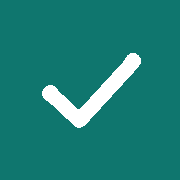
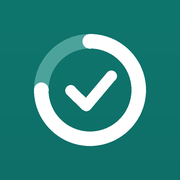
Mindre space, bedre gruppering

Changed region(s): [[0.1667, 0.1667, 0.8333, 0.8333]]

diff --git a/index.html b/index.html
@@ -10,7 +10,7 @@
 <meta name="apple-mobile-web-app-title" content="Vanelogg">
 <link rel="manifest" href="manifest.webmanifest">
 <link rel="apple-touch-icon" href="apple-touch-icon.png">
-<link rel="icon" href="icon-192.png">
+<link rel="icon" type="image/png" href="favicon.png">
 <style>
 :root{
   --c1:#0f766e;--c2:#2563eb;--c3:#9333ea;--c4:#db2777;--c5:#b45309;--c6:#4d7c0f;
@@ -39,25 +39,54 @@ h2{font-size:1.05rem;margin:0}
 .datehead .d{font-weight:650;font-size:1.1rem}
 .datehead .s{font-size:.85rem;color:var(--muted)}
 .linkbtn{background:none;border:0;color:var(--hab);font-weight:600;padding:6px 4px;min-height:36px}
-.card{background:var(--card);border:1px solid var(--line);border-radius:16px;padding:14px;margin-bottom:14px}
+.card{background:var(--card);border:1px solid var(--line);border-radius:16px;padding:10px 14px;margin-bottom:12px}
 .card h2{display:flex;justify-content:space-between;align-items:baseline;gap:8px;margin-bottom:6px}
 .badge{font-size:.8rem;font-weight:600;padding:2px 9px;border-radius:99px;background:var(--hab-soft);color:var(--hab)}
 .badge.bad{background:var(--bad-soft);color:var(--bad)}
-.row{display:flex;align-items:center;gap:10px;padding:10px 0;border-top:1px solid var(--line)}
+.row{display:flex;align-items:center;gap:8px;padding:6px 0;border-top:1px solid var(--line)}
 h2+.row,.ghead+.row{border-top:0}
 .row .info{flex:1;min-width:0}
-.row .name{font-weight:600;overflow-wrap:anywhere}
-.row .sub{font-size:.85rem;color:var(--muted);display:flex;align-items:center;gap:4px;flex-wrap:wrap}
-.row.done .sub{color:var(--hab);font-weight:600}
-.stepper{display:flex;align-items:center;gap:4px}
+.row .name{font-weight:600;overflow-wrap:anywhere;line-height:1.25}
+.row .sub{font-size:.82rem;color:var(--muted);display:flex;align-items:center;gap:2px 8px;flex-wrap:wrap;line-height:1.3}
+.row.done .sub{color:var(--g,var(--hab));font-weight:600}
+.stepper{display:flex;align-items:center;gap:2px}
 .stepper button{width:44px;height:44px;border-radius:12px;border:1px solid var(--line);background:var(--bg);font-size:1.4rem;line-height:1}
-.stepper button.plus{background:var(--hab);border-color:var(--hab);color:#fff}
-.bad .stepper button.plus,.row.badrow .stepper button.plus{background:var(--bad);border-color:var(--bad)}
-@media (prefers-color-scheme:dark){.stepper button.plus{color:#062b27}.row.badrow .stepper button.plus{color:#2b1b00}}
+.gc-teal{--g:#0f766e;--gs:#d6efeb;--gt:#fff}
+.gc-blue{--g:#1d4ed8;--gs:#dbe7fd;--gt:#fff}
+.gc-purple{--g:#6d28d9;--gs:#e9defc;--gt:#fff}
+.gc-pink{--g:#be185d;--gs:#fbdcea;--gt:#fff}
+.gc-orange{--g:#b43c0a;--gs:#fde3d3;--gt:#fff}
+.gc-green{--g:#166534;--gs:#d8f1de;--gt:#fff}
+.gc-red{--g:#b91c1c;--gs:#fbdada;--gt:#fff}
+.gc-slate{--g:#475569;--gs:#e2e8f0;--gt:#fff}
+@media (prefers-color-scheme:dark){
+.gc-teal{--g:#2dd4bf;--gs:#12403b;--gt:#062b27}
+.gc-blue{--g:#8ab4ff;--gs:#1b2a4d;--gt:#0b1530}
+.gc-purple{--g:#b79cff;--gs:#2c2150;--gt:#150b33}
+.gc-pink{--g:#f472b6;--gs:#4a1c37;--gt:#2e0a1c}
+.gc-orange{--g:#fb923c;--gs:#4a2a12;--gt:#2b1200}
+.gc-green{--g:#4ade80;--gs:#143a21;--gt:#04210f}
+.gc-red{--g:#f87171;--gs:#4a1c1c;--gt:#2e0808}
+.gc-slate{--g:#a8b5c6;--gs:#2a3340;--gt:#10161d}}
+.stepper button.plus{background:var(--g,var(--hab));border-color:var(--g,var(--hab));color:var(--gt,#fff)}
+.row.badrow .stepper button.plus{background:var(--g,var(--bad));border-color:var(--g,var(--bad));color:var(--gt,#fff)}
+@media (prefers-color-scheme:dark){.stepper button.plus{color:var(--gt,#062b27)}.row.badrow .stepper button.plus{color:var(--gt,#2b1b00)}}
+.card.gcard{border-left:6px solid var(--g)}
+.gh{display:flex;align-items:center;gap:10px;margin-bottom:2px}
+.gh .nm{font-weight:700;flex:1;overflow-wrap:anywhere}
+.ic{width:30px;height:30px;border-radius:10px;background:var(--gs);color:var(--g);display:grid;place-items:center;flex:none}
+.gcnt{font-size:.8rem;font-weight:700;padding:2px 9px;border-radius:99px;background:var(--gs,var(--hab-soft));color:var(--g,var(--hab))}
+.sect{display:flex;justify-content:space-between;align-items:center;margin:20px 2px 8px}
+.sect:first-of-type{margin-top:8px}
+.sect h2{font-size:1.1rem}
+.card>.row:first-child,.gh+.row{border-top:0}
+.swatches{display:flex;flex-wrap:wrap;gap:10px}
+.sw{width:44px;height:44px;border-radius:50%;border:3px solid transparent;background:var(--g);color:var(--gt,#fff);display:grid;place-items:center;padding:0}
+.sw[aria-pressed=true]{border-color:var(--ink);box-shadow:0 0 0 2px var(--card) inset}
 .stepper button.plus.secondary{background:var(--bg);border-color:var(--line);color:var(--ink)}
-.row.done .stepper button.plus.secondary{border-color:var(--hab)}
+.row.done .stepper button.plus.secondary{border-color:var(--g,var(--hab))}
 .stepper button:disabled{opacity:.35}
-.cnt{min-width:46px;height:44px;text-align:center;font-size:1.2rem;font-weight:700;border:1px solid transparent;border-radius:10px;background:transparent;-moz-appearance:textfield}
+.cnt{min-width:40px;height:44px;text-align:center;font-size:1.2rem;font-weight:700;border:1px solid transparent;border-radius:10px;background:transparent;-moz-appearance:textfield}
 .cnt::-webkit-outer-spin-button,.cnt::-webkit-inner-spin-button{-webkit-appearance:none;margin:0}
 .cnt:focus{border-color:var(--line);background:var(--bg)}
 .empty{text-align:center;padding:28px 12px}
@@ -94,10 +123,10 @@ input.txt{width:100%;min-height:46px;border:1px solid var(--line);border-radius:
 .minrow{display:flex;align-items:center;gap:10px}
 .minrow output{font-size:1.2rem;font-weight:700;min-width:2ch;text-align:center}
 .minrow button{width:44px;height:44px;border-radius:12px;border:1px solid var(--line);background:var(--bg);font-size:1.4rem}
-.alist .item{display:flex;align-items:center;gap:6px;border-top:1px solid var(--line);min-height:56px}
+.alist .item{display:flex;align-items:center;gap:6px;border-top:1px solid var(--line);min-height:48px}
 .alist .item:first-child,.ghead+.item{border-top:0}
-.alist .item .main{flex:1;min-width:0;text-align:left;display:flex;align-items:center;gap:10px;background:none;border:0;padding:12px 0;min-height:56px}
-.alist .item .mv{width:44px;height:44px;border-radius:12px;border:1px solid var(--line);background:var(--bg);display:grid;place-items:center;flex:none}
+.alist .item .main{flex:1;min-width:0;text-align:left;display:flex;align-items:center;gap:10px;background:none;border:0;padding:6px 0;min-height:48px}
+.alist .item .mv{width:40px;height:40px;border-radius:12px;border:1px solid var(--line);background:var(--bg);display:grid;place-items:center;flex:none}
 .alist .item .mv:disabled{opacity:.3}
 .dot{width:10px;height:10px;border-radius:50%;background:var(--hab);flex:none}
 .dot.bad{background:var(--bad)}
@@ -109,10 +138,11 @@ textarea.txt{width:100%;border:1px solid var(--line);border-radius:12px;padding:
 .qlog{-webkit-touch-callout:none;-webkit-user-select:none;user-select:none;touch-action:manipulation}
 .row.rest .name{color:var(--muted)}
 .streak{display:inline-flex;align-items:center;gap:4px;font-size:.82rem;font-weight:600;color:var(--bad)}
-.notebtn{display:flex;align-items:center;gap:5px;background:none;border:0;padding:4px 0;min-height:32px;color:var(--muted);font-size:.85rem;max-width:100%;text-align:left}
+.notebtn{display:flex;align-items:center;gap:5px;background:none;border:0;padding:2px 0;min-height:26px;color:var(--muted);font-size:.82rem;max-width:100%;text-align:left}
+.notebtn.io{padding:2px 6px;min-height:28px;border-radius:8px}
 .notebtn span{overflow:hidden;text-overflow:ellipsis;white-space:nowrap}
 .notebtn.has{color:var(--ink)}
-.notebtn.has svg{color:var(--hab)}
+.notebtn.has svg{color:var(--g,var(--hab))}
 .prog{display:flex;align-items:center;gap:14px}
 .prog .t{font-weight:650;font-size:1.05rem}
 .prog .s{font-size:.88rem;color:var(--muted)}
@@ -125,30 +155,31 @@ table.gt{border-collapse:separate;border-spacing:3px;width:100%}
 .gt th.today{color:var(--hab);text-decoration:underline}
 .gt th.rn{text-align:left;position:sticky;left:0;background:var(--card);z-index:1;width:74px;min-width:66px;max-width:84px;font-size:.8rem;color:var(--ink);padding-right:4px;overflow-wrap:break-word;hyphens:auto}
 .gt .gr th{text-align:left;font-size:.8rem;color:var(--muted);padding-top:8px}
-.gt .gr th span{display:inline-flex;align-items:center;gap:6px;position:sticky;left:0}
+.gt .gr th span{display:inline-flex;align-items:center;gap:6px;position:sticky;left:0;color:var(--g,var(--muted));font-weight:700}
 .gt td{padding:0;text-align:center}
 .gt td.sum{font-weight:700;font-size:.85rem;min-width:18px;padding-left:2px}
 .cell{width:100%;min-width:25px;height:36px;border-radius:7px;border:1.5px solid var(--line);background:transparent;display:grid;place-items:center;font-size:.74rem;font-weight:700;padding:0;position:relative;color:#fff}
 .gt.m .cell{min-width:24px;height:32px}
-.cell.done{background:var(--hab);border-color:var(--hab)}
-.cell.bad{background:var(--bad);border-color:var(--bad)}
-.cell.part{background:var(--hab-soft);border-color:var(--hab);color:var(--hab)}
+.cell.done{background:var(--g,var(--hab));border-color:var(--g,var(--hab))}
+.cell.bad{background:var(--g,var(--bad));border-color:var(--g,var(--bad))}
+.cell.part{background:var(--gs,var(--hab-soft));border-color:var(--g,var(--hab));color:var(--g,var(--hab))}
 .cell.none{color:transparent}
 .cell.rest{border-style:dashed;opacity:.5}
 .cell.na{border-color:transparent;background:repeating-linear-gradient(135deg,var(--line) 0 2px,transparent 2px 5px);opacity:.5;pointer-events:none}
 .cell.hasnote::after{content:"";position:absolute;top:2px;right:2px;width:6px;height:6px;border-radius:50%;background:var(--ink);border:1px solid var(--card)}
 .cell.sel{outline:3px solid var(--focus);outline-offset:1px}
-@media (prefers-color-scheme:dark){.cell.done{color:#062b27}.cell.bad{color:#2b1b00}}
+@media (prefers-color-scheme:dark){.cell.done{color:var(--gt,#062b27)}.cell.bad{color:var(--gt,#2b1b00)}}
+.cell.done,.cell.bad{color:var(--gt,#fff)}
 .ghead{display:flex;align-items:center;gap:8px;font-weight:650;font-size:.9rem;color:var(--muted);margin:14px 0 2px}
 .ghead .gc{margin-left:auto;font-weight:600;font-size:.82rem}
 .ghead svg{flex:none}
 .btn.sm{min-height:40px;padding:0 12px;font-size:.9rem}
 .chips{display:flex;flex-wrap:wrap;gap:6px}
 .chips button{min-height:44px;padding:0 12px;border-radius:12px;border:1px solid var(--line);background:var(--bg);display:flex;align-items:center;gap:6px;font-weight:600}
-.chips button[aria-pressed=true]{background:var(--hab-soft);border-color:var(--hab);color:var(--hab)}
+.chips button[aria-pressed=true]{background:var(--gs,var(--hab-soft));border-color:var(--g,var(--hab));color:var(--g,var(--hab))}
 .igrid{display:grid;grid-template-columns:repeat(4,1fr);gap:6px}
 .igrid button{min-height:62px;display:flex;flex-direction:column;align-items:center;justify-content:center;gap:3px;border:1px solid var(--line);border-radius:12px;background:var(--bg);font-size:.7rem;font-weight:600;color:var(--muted);padding:4px 2px}
-.igrid button[aria-pressed=true]{background:var(--hab-soft);border-color:var(--hab);color:var(--hab)}
+.igrid button[aria-pressed=true]{background:var(--gs,var(--hab-soft));border-color:var(--g,var(--hab));color:var(--g,var(--hab))}
 .ghd{display:flex;justify-content:space-between;align-items:center}
 .legend{display:flex;flex-wrap:wrap;gap:6px;margin-top:8px}
 .legend button{display:flex;align-items:center;gap:6px;min-height:40px;padding:0 10px;border-radius:10px;border:1px solid var(--line);background:var(--bg);font-size:.88rem;font-weight:600;max-width:100%}
@@ -195,7 +226,7 @@ let storageOK = true;
 let state = { v:1, activities:[], groups:[], logs:{}, notes:{}, meta:{ lastBackup:null, snoozeUntil:null, remindTime:'20:00' }, prefs:{ range:'week', kind:'bar' } };
 try {
   const raw = localStorage.getItem(KEY);
-  if (raw) { const p = JSON.parse(raw); if (p && Array.isArray(p.activities) && p.logs) state = Object.assign(state, p, { prefs: Object.assign(state.prefs, p.prefs||{}) }); if (!Array.isArray(state.groups)) state.groups = []; if (!state.notes || typeof state.notes !== 'object') state.notes = {}; state.meta = Object.assign({ lastBackup:null, snoozeUntil:null, remindTime:'20:00' }, state.meta || {}); }
+  if (raw) { const p = JSON.parse(raw); if (p && Array.isArray(p.activities) && p.logs) state = Object.assign(state, p, { prefs: Object.assign(state.prefs, p.prefs||{}) }); if (!Array.isArray(state.groups)) state.groups = []; if (!state.notes || typeof state.notes !== 'object') state.notes = {}; state.groups.forEach((g, i) => { if (!g.color) g.color = ['teal','blue','purple','pink','orange','green','red','slate'][i % 8]; }); state.meta = Object.assign({ lastBackup:null, snoozeUntil:null, remindTime:'20:00' }, state.meta || {}); }
 } catch(e) { storageOK = false; }
 function save() {
   try { localStorage.setItem(KEY, JSON.stringify(state)); } catch(e) { storageOK = false; }
@@ -328,6 +359,8 @@ const GI = {
   sun:['Morgen','<circle cx="12" cy="12" r="4"/><path d="M12 2v2M12 20v2M2 12h2M20 12h2M4.9 4.9l1.4 1.4M17.7 17.7l1.4 1.4M4.9 19.1l1.4-1.4M17.7 6.3l1.4-1.4"/>'],
   tree:['Ute','<path d="M12 21v-6M12 15c-4 0-6-2.5-6-5.5 0-2 1.5-3.5 3.5-3.5C9.5 4 11 3 12 3s2.5 1 2.5 3c2 0 3.5 1.5 3.5 3.5 0 3-2 5.5-6 5.5z"/>']
 };
+const COLORS = [{k:'teal',n:'Blågrønn'},{k:'blue',n:'Blå'},{k:'purple',n:'Lilla'},{k:'pink',n:'Rosa'},{k:'orange',n:'Oransje'},{k:'green',n:'Grønn'},{k:'red',n:'Rød'},{k:'slate',n:'Grå'}];
+const nextColor = () => (COLORS.find(c => !state.groups.some(g => g.color === c.k)) || COLORS[state.groups.length % COLORS.length]).k;
 const gicon = (k, sz = 20) => `<svg width="${sz}" height="${sz}" viewBox="0 0 24 24" fill="none" stroke="currentColor" stroke-width="2" stroke-linecap="round" stroke-linejoin="round" aria-hidden="true">${(GI[k] || GI.star)[1]}</svg>`;
 
 /* ---------- Visninger ---------- */
@@ -373,41 +406,45 @@ function renderToday() {
       <div><div class="t">${reachedN === due.length ? 'Alt gjort ' + (isToday ? 'i dag' : 'denne dagen') : reachedN + ' av ' + due.length + ' vaner nådd'}</div>
       <div class="s">${reachedN === due.length ? 'Bra jobba!' : (due.length - reachedN) + ' igjen ' + (isToday ? 'i dag' : 'denne dagen')}</div></div></section>`;
   }
-  const gHead = (g, items) => {
-    if (!state.groups.length) return '';
-    const hab = items.length && items[0].type === 'habit';
-    const its = items.filter(a => isDue(a, day));
-    const cnt = hab && its.length ? `<span class="gc">${its.filter(a => getCount(a.id, day) >= a.target).length}/${its.length}</span>` : '';
-    return `<div class="ghead">${g ? gicon(g.icon) : ''}<span>${g ? esc(g.name) : 'Andre'}</span>${cnt}</div>`;
+  const noteIcon = a => noteOf(a.id, day) ? '' : `<button class="notebtn io" data-act="note" data-id="${a.id}" aria-label="Legg til notat for ${esc(a.name)}">${I.note}</button>`;
+  const noteLine = a => { const n = noteOf(a.id, day); return n ? `<button class="notebtn has" data-act="note" data-id="${a.id}" aria-label="Rediger notat for ${esc(a.name)}">${I.note}<span>${esc(n)}</span></button>` : ''; };
+  const habRow = a => {
+    const c = getCount(a.id, day), done = c >= a.target, s = sched(a), isWeek = s.mode === 'week', rest = !isWeek && !isDue(a, day);
+    const wk = isWeek ? weekCount(a, day) : 0;
+    let sub;
+    if (done) sub = I.check + ' Nådd'; else if (isWeek) sub = wk + ' av ' + s.n + ' denne uka'; else if (rest) sub = 'Hviledag'; else sub = 'Minst ' + a.target + (a.target>1?' ganger':' gang');
+    if (done && isWeek) sub += ' · ' + wk + ' av ' + s.n + ' denne uka';
+    if (c > a.target) sub += ' · ' + c + ' totalt';
+    let st = '';
+    if (isToday) { const k = streakOf(a); if (k.n >= 2) st = `<span class="streak">${I.flame} ${k.n} ${k.unit} på rad</span>`; }
+    return `<div class="row ${done?'done':''} ${rest?'rest':''}">
+      <div class="info"><div class="name qlog" data-id="${a.id}">${esc(a.name)}</div>
+      <div class="sub"><span style="display:inline-flex;align-items:center;gap:4px">${sub}</span>${st}${noteIcon(a)}</div>${noteLine(a)}</div>
+      ${stepper(a, c, done)}</div>`;
   };
-  const noteBtn = a => { const n = noteOf(a.id, day);
-    return `<button class="notebtn ${n?'has':''}" data-act="note" data-id="${a.id}" aria-label="${n ? 'Rediger notat for ' : 'Legg til notat for '}${esc(a.name)}">${I.note}<span>${n ? esc(n) : 'Notat'}</span></button>`; };
+  const badRow = a => {
+    const c = getCount(a.id, day);
+    let st = ''; if (isToday) { const w = daysWithout(a); if (w >= 1) st = `<span class="streak" style="color:var(--hab)">${I.check} ${w} ${w===1?'dag':'dager'} uten</span>`; }
+    return `<div class="row badrow"><div class="info"><div class="name qlog" data-id="${a.id}">${esc(a.name)}</div>
+      <div class="sub"><span>${c ? c + (c>1?' ganger':' gang') : 'Ingen'}</span>${st}${noteIcon(a)}</div>${noteLine(a)}</div>${stepper(a, c, false)}</div>`;
+  };
+  /* Ett kort per gruppe */
+  const cards = (list, rowFn, type) => grouped(list).map(({ g, items }) => {
+    let head = '';
+    if (state.groups.length) {
+      let cnt = '';
+      if (type === 'habit') { const its = items.filter(a => isDue(a, day)); if (its.length) cnt = `<span class="gcnt">${its.filter(a => getCount(a.id, day) >= a.target).length}/${its.length}</span>`; }
+      else { const t = items.reduce((n, a) => n + getCount(a.id, day), 0); if (t) cnt = `<span class="gcnt">${t}×</span>`; }
+      head = `<div class="gh">${g ? `<span class="ic">${gicon(g.icon, 20)}</span>` : ''}<span class="nm">${g ? esc(g.name) : 'Andre'}</span>${cnt}</div>`;
+    }
+    return `<section class="card ${g ? 'gcard gc-' + (g.color || 'teal') : ''}" aria-label="${g ? esc(g.name) : 'Andre'}">${head}${items.map(rowFn).join('')}</section>`;
+  }).join('');
   if (hs.length) {
-    h += `<section class="card" aria-labelledby="hh"><h2 id="hh">Vaner <span class="badge">${due.length ? reachedN + ' av ' + due.length + ' nådd' : 'ingen planlagt'}</span></h2>`;
-    h += grouped(hs).map(({ g, items }) => gHead(g, items) + items.map(a => {
-      const c = getCount(a.id, day), done = c >= a.target, s = sched(a), isWeek = s.mode === 'week', rest = !isWeek && !isDue(a, day);
-      const wk = isWeek ? weekCount(a, day) : 0;
-      let sub;
-      if (done) sub = I.check + ' Nådd'; else if (isWeek) sub = wk + ' av ' + s.n + ' denne uka'; else if (rest) sub = 'Hviledag'; else sub = 'Minst ' + a.target + (a.target>1?' ganger':' gang');
-      if (done && isWeek) sub += ' · ' + wk + ' av ' + s.n + ' denne uka';
-      if (c > a.target) sub += ' · ' + c + ' totalt';
-      let st = '';
-      if (isToday) { const k = streakOf(a); if (k.n >= 2) st = `<span class="streak">${I.flame} ${k.n} ${k.unit} på rad</span>`; }
-      return `<div class="row ${done?'done':''} ${rest?'rest':''}">
-        <div class="info"><div class="name qlog" data-id="${a.id}">${esc(a.name)}</div>
-        <div class="sub"><span style="display:inline-flex;align-items:center;gap:4px">${sub}</span>${st}</div>${noteBtn(a)}</div>
-        ${stepper(a, c, done)}</div>`;
-    }).join('')).join('') + `</section>`;
+    h += `<div class="sect"><h2 id="hh">Vaner</h2><span class="badge">${due.length ? reachedN + ' av ' + due.length + ' nådd' : 'ingen planlagt'}</span></div>` + cards(hs, habRow, 'habit');
   }
   if (bs.length) {
     const tot = bs.reduce((s,a) => s + getCount(a.id, day), 0);
-    h += `<section class="card" aria-labelledby="bh"><h2 id="bh">Uvaner <span class="badge bad">${tot} registrert</span></h2>`;
-    h += grouped(bs).map(({ g, items }) => gHead(g, items) + items.map(a => {
-      const c = getCount(a.id, day);
-      let st = ''; if (isToday) { const w = daysWithout(a); if (w >= 1) st = `<span class="streak" style="color:var(--hab)">${I.check} ${w} ${w===1?'dag':'dager'} uten</span>`; }
-      return `<div class="row badrow"><div class="info"><div class="name qlog" data-id="${a.id}">${esc(a.name)}</div>
-        <div class="sub"><span>${c ? c + (c>1?' ganger':' gang') : 'Ingen'}</span>${st}</div>${noteBtn(a)}</div>${stepper(a, c, false)}</div>`;
-    }).join('')).join('') + `</section>`;
+    h += `<div class="sect"><h2 id="bh">Uvaner</h2><span class="badge bad">${tot} registrert</span></div>` + cards(bs, badRow, 'bad');
   }
   h += `<p class="hint">Tips: dobbelttrykk eller hold inne på et navn for +1. Sveip sideveis for å bytte dag.</p>`;
   return h;
@@ -557,7 +594,7 @@ function renderTrends() {
         + days.map(d => { const dt = parse(d); return `<th scope="col" class="${d === today ? 'today' : ''}">${month ? '' : DAYS3[dt.getDay()] + '<br>'}${dt.getDate()}</th>`; }).join('')
         + `<th scope="col" title="${bad ? 'Antall ganger' : 'Dager oppnådd'}">${bad ? 'Σ' : '✓'}</th></tr></thead><tbody>`;
       grouped(list).forEach(({ g, items }) => {
-        if (state.groups.length) h += `<tr class="gr"><th colspan="${days.length + 2}" scope="colgroup"><span>${g ? gicon(g.icon, 16) : ''}${g ? esc(g.name) : 'Andre'}</span></th></tr>`;
+        if (state.groups.length) h += `<tr class="gr ${g ? 'gc-' + (g.color || 'teal') : ''}"><th colspan="${days.length + 2}" scope="colgroup"><span>${g ? gicon(g.icon, 16) : ''}${g ? esc(g.name) : 'Andre'}</span></th></tr>`;
         items.forEach(a => {
           let sum = 0;
           const cells = days.map(d => {
@@ -568,7 +605,7 @@ function renderTrends() {
             else if (ci.st === 'part') inner = month ? '' : ci.c;
             return `<td><button class="cell ${ci.st} ${noteOf(a.id, d) ? 'hasnote' : ''}" data-act="gcell" data-id="${a.id}" data-d="${d}" aria-label="${esc(a.name)}, ${esc(shortDate(d))}: ${esc(statusText(a, d))}${noteOf(a.id, d) ? ', har notat' : ''}" ${ci.st === 'na' ? 'tabindex="-1" aria-disabled="true"' : ''}>${inner}</button></td>`;
           }).join('');
-          h += `<tr><th class="rn" scope="row">${esc(a.name)}${a.archived ? ' <span class="muted">(arkivert)</span>' : ''}</th>${cells}<td class="sum">${sum}</td></tr>`;
+          h += `<tr class="${g ? 'gc-' + (g.color || 'teal') : ''}"><th class="rn" scope="row">${esc(a.name)}${a.archived ? ' <span class="muted">(arkivert)</span>' : ''}</th>${cells}<td class="sum">${sum}</td></tr>`;
         });
       });
       h += `</tbody></table></div><div class="cap" id="cap-g-${type}" aria-live="polite" style="margin-top:8px"><span class="muted">Trykk på en rute for detaljer.</span></div></section>`;
@@ -652,21 +689,23 @@ function renderActs() {
     <span style="flex:1;overflow-wrap:anywhere"><b>${esc(a.name)}</b> ${a.type==='habit' ? `<span class="muted"> · minst ${a.target}×/dag${schedText(a)}</span>` : ''}</span></button>
     <button class="mv" data-act="move" data-id="${a.id}" data-d="-1" aria-label="Flytt opp: ${esc(a.name)}" ${i===0?'disabled':''}>${arrow(-1)}</button>
     <button class="mv" data-act="move" data-id="${a.id}" data-d="1" aria-label="Flytt ned: ${esc(a.name)}" ${i===list.length-1?'disabled':''}>${arrow(1)}</button></div>`;
-  const gHead = g => state.groups.length ? `<div class="ghead">${g ? gicon(g.icon) : ''}<span>${g ? esc(g.name) : 'Andre'}</span></div>` : '';
   const sect = (type, none) => {
     const list = live(type);
-    if (!list.length) return `<p class="muted">${none}</p>`;
-    return grouped(list).map(({ g, items }) => gHead(g) + items.map((a, i) => item(a, i, items)).join('')).join('');
+    if (!list.length) return `<section class="card"><p class="muted" style="margin:0">${none}</p></section>`;
+    return grouped(list).map(({ g, items }) => {
+      const head = state.groups.length ? `<div class="gh">${g ? `<span class="ic">${gicon(g.icon, 20)}</span>` : ''}<span class="nm">${g ? esc(g.name) : 'Andre'}</span></div>` : '';
+      return `<section class="card ${g ? 'gcard gc-' + (g.color || 'teal') : ''}" aria-label="${g ? esc(g.name) : 'Andre'}">${head}<div class="alist">${items.map((a, i) => item(a, i, items)).join('')}</div></section>`;
+    }).join('');
   };
   let h = `<div class="top"><h1>Aktiviteter</h1><button class="btn primary" data-act="newact">+ Ny</button></div>`;
   if (!storageOK) h += `<div class="warn" role="alert">Nettleseren tillater ikke lagring. Data blir borte når du lukker appen.</div>`;
-  h += `<section class="card"><h2>Vaner</h2><div class="alist">${sect('habit', 'Ingen vaner.')}</div></section>`;
-  h += `<section class="card"><h2>Uvaner</h2><div class="alist">${sect('bad', 'Ingen uvaner.')}</div></section>`;
+  h += `<div class="sect"><h2>Vaner</h2></div>${sect('habit', 'Ingen vaner.')}`;
+  h += `<div class="sect"><h2>Uvaner</h2></div>${sect('bad', 'Ingen uvaner.')}`;
   h += `<section class="card"><div class="ghd"><h2 style="margin:0">Grupper</h2><button class="btn sm" data-act="gnew">+ Ny gruppe</button></div>`;
   if (!state.groups.length) h += `<p class="note">Samle aktiviteter i grupper, for eksempel «Mosjon» eller «Hjemme», og velg et ikon til hver gruppe.</p>`;
   else h += `<div class="alist" style="margin-top:6px">` + state.groups.map((g, i) => {
     const n = state.activities.filter(a => a.group === g.id && !a.archived).length;
-    return `<div class="item"><button class="main" data-act="gedit" data-id="${g.id}" aria-label="Rediger gruppen ${esc(g.name)}"><span style="color:var(--hab);display:grid">${gicon(g.icon, 24)}</span>
+    return `<div class="item"><button class="main" data-act="gedit" data-id="${g.id}" aria-label="Rediger gruppen ${esc(g.name)}"><span class="ic gc-${g.color || 'teal'}">${gicon(g.icon, 20)}</span>
       <span style="flex:1;overflow-wrap:anywhere"><b>${esc(g.name)}</b><span class="muted"> · ${n} aktivitet${n===1?'':'er'}</span></span></button>
       <button class="mv" data-act="gmove" data-id="${g.id}" data-d="-1" aria-label="Flytt gruppen opp: ${esc(g.name)}" ${i===0?'disabled':''}>${arrow(-1)}</button>
       <button class="mv" data-act="gmove" data-id="${g.id}" data-d="1" aria-label="Flytt gruppen ned: ${esc(g.name)}" ${i===state.groups.length-1?'disabled':''}>${arrow(1)}</button></div>`;
@@ -682,7 +721,7 @@ function renderActs() {
     <label class="f" for="rtime">Klokkeslett</label><input id="rtime" class="txt" type="time" value="${esc(state.meta.remindTime || '20:00')}">
     <button class="btn block" style="margin-top:10px" data-act="ics">Legg til i kalender</button></section>`;
   h += `<section class="card"><h2>Sikkerhetskopi</h2>
-    <p class="note" style="margin-top:0">Appversjon 9. Alt lagres kun i denne nettleseren på denne enheten. Tømmer du nettleserdata, forsvinner loggen. ${state.meta.lastBackup ? 'Sist sikkerhetskopi: ' + esc(shortDate(state.meta.lastBackup)) + '.' : 'Du har ikke tatt sikkerhetskopi ennå.'}</p>
+    <p class="note" style="margin-top:0">Appversjon 12. Alt lagres kun i denne nettleseren på denne enheten. Tømmer du nettleserdata, forsvinner loggen. ${state.meta.lastBackup ? 'Sist sikkerhetskopi: ' + esc(shortDate(state.meta.lastBackup)) + '.' : 'Du har ikke tatt sikkerhetskopi ennå.'}</p>
     <div style="margin-top:12px"><button class="btn block" data-act="export">Lagre sikkerhetskopi</button>
     <button class="btn block" data-act="import">Gjenopprett fra fil</button></div></section>`;
   return h;
@@ -715,7 +754,7 @@ function renderSheet() {
         <p class="note">Ukemål-vaner teller ikke i dagsprosenten. Du får en rekke i antall uker der målet er nådd.</p>` : ''}`; })() : ''}
     ${state.groups.length ? `<label class="f" id="lg">Gruppe</label><div class="chips" role="group" aria-labelledby="lg">
       <button data-act="egroup" data-g="" aria-pressed="${!e.group}">Ingen</button>
-      ${state.groups.map(g => `<button data-act="egroup" data-g="${g.id}" aria-pressed="${e.group === g.id}">${gicon(g.icon, 18)} ${esc(g.name)}</button>`).join('')}</div>` : ''}
+      ${state.groups.map(g => `<button class="gc-${g.color || 'teal'}" data-act="egroup" data-g="${g.id}" aria-pressed="${e.group === g.id}">${gicon(g.icon, 18)} ${esc(g.name)}</button>`).join('')}</div>` : ''}
     ${e.err ? `<p class="note" style="color:var(--danger)" role="alert">${esc(e.err)}</p>` : ''}
     <div style="margin-top:16px">
       <button class="btn primary block" data-act="esave">Lagre</button>
@@ -746,8 +785,10 @@ function renderGroupSheet() {
     <h2 id="gh">${g.id ? 'Rediger gruppe' : 'Ny gruppe'}</h2>
     <label class="f" for="g-name">Navn på gruppen</label>
     <input id="g-name" class="txt" type="text" maxlength="40" value="${esc(g.name)}" placeholder="F.eks. Mosjon" autocomplete="off">
+    <label class="f" id="lc">Farge</label>
+    <div class="swatches" role="group" aria-labelledby="lc">${COLORS.map(c => `<button class="sw gc-${c.k}" data-act="gcolor" data-c="${c.k}" aria-pressed="${g.color === c.k}" aria-label="${c.n}">${g.color === c.k ? I.check : ''}</button>`).join('')}</div>
     <label class="f" id="li">Ikon</label>
-    <div class="igrid" role="group" aria-labelledby="li">${Object.keys(GI).map(k =>
+    <div class="igrid gc-${g.color}" role="group" aria-labelledby="li">${Object.keys(GI).map(k =>
       `<button data-act="gicon" data-i="${k}" aria-pressed="${g.icon === k}" aria-label="${GI[k][0]}">${gicon(k, 24)}<span>${GI[k][0]}</span></button>`).join('')}</div>
     ${g.err ? `<p class="note" style="color:var(--danger)" role="alert">${esc(g.err)}</p>` : ''}
     <div style="margin-top:16px">
@@ -878,15 +919,16 @@ document.addEventListener('click', ev => {
       toast('«' + a.name + '» er gjenopprettet');
       break; }
     case 'egroup': syncName(); ui.edit.group = el.dataset.g || null; render(); break;
-    case 'gnew': ui.gedit = { id:null, name:'', icon:'star' }; render(); break;
-    case 'gedit': { const g = state.groups.find(x => x.id === id); ui.gedit = { id:g.id, name:g.name, icon:g.icon }; render(); break; }
+    case 'gnew': ui.gedit = { id:null, name:'', icon:'star', color:nextColor() }; render(); break;
+    case 'gcolor': syncG(); ui.gedit.color = el.dataset.c; render(); break;
+    case 'gedit': { const g = state.groups.find(x => x.id === id); ui.gedit = { id:g.id, name:g.name, icon:g.icon, color:g.color || 'teal' }; render(); break; }
     case 'gicon': syncG(); ui.gedit.icon = el.dataset.i; render(); break;
     case 'closeg': if (el.classList.contains('overlay') && ev.target !== el) break; ui.gedit = null; render(); break;
     case 'gsave': {
       syncG(); const g = ui.gedit, name = g.name.trim();
       if (!name) { g.err = 'Skriv inn et navn.'; render(); break; }
-      if (g.id) { const x = state.groups.find(y => y.id === g.id); x.name = name; x.icon = g.icon; }
-      else state.groups.push({ id: uid(), name, icon: g.icon });
+      if (g.id) { const x = state.groups.find(y => y.id === g.id); x.name = name; x.icon = g.icon; x.color = g.color; }
+      else state.groups.push({ id: uid(), name, icon: g.icon, color: g.color });
       save(); ui.gedit = null; render(); break; }
     case 'gdeleteask': syncG(); ui.gedit.confirm = true; render(); break;
     case 'gdelete': {
@@ -953,7 +995,7 @@ document.addEventListener('change', ev => {
         const p = JSON.parse(r.result);
         if (!p || !Array.isArray(p.activities) || typeof p.logs !== 'object') throw 0;
         if (!confirm('Dette erstatter all eksisterende data i appen. Fortsette?')) return;
-        state = { v:1, activities:p.activities, groups:Array.isArray(p.groups) ? p.groups : [], notes:(p.notes && typeof p.notes === 'object') ? p.notes : {}, meta:Object.assign({ lastBackup:null, snoozeUntil:null, remindTime:'20:00' }, p.meta || {}), logs:p.logs, prefs:Object.assign({range:'week',kind:'bar'}, p.prefs||{}) };
+        state = { v:1, activities:p.activities, groups:Array.isArray(p.groups) ? p.groups.map((g, i) => Object.assign({ color: COLORS[i % COLORS.length].k }, g)) : [], notes:(p.notes && typeof p.notes === 'object') ? p.notes : {}, meta:Object.assign({ lastBackup:null, snoozeUntil:null, remindTime:'20:00' }, p.meta || {}), logs:p.logs, prefs:Object.assign({range:'week',kind:'bar'}, p.prefs||{}) };
         save(); ui.offset = 0; render(); toast('Sikkerhetskopi gjenopprettet');
       } catch(e) { alert('Filen ser ikke ut som en gyldig sikkerhetskopi fra Vanelogg.'); }
     };

diff --git a/sw.js b/sw.js
@@ -1,5 +1,5 @@
-const CACHE = 'vanelogg-v9';
-const FILES = ['./', './index.html', './manifest.webmanifest', './icon-192.png', './icon-512.png', './apple-touch-icon.png'];
+const CACHE = 'vanelogg-v12';
+const FILES = ['./', './index.html', './manifest.webmanifest', './icon-192.png', './icon-512.png', './icon-maskable-192.png', './icon-maskable-512.png', './icon-monochrome-512.png', './apple-touch-icon.png'];
 self.addEventListener('install', e => {
   e.waitUntil(caches.open(CACHE).then(c => c.addAll(FILES)).then(() => self.skipWaiting()));
 });
